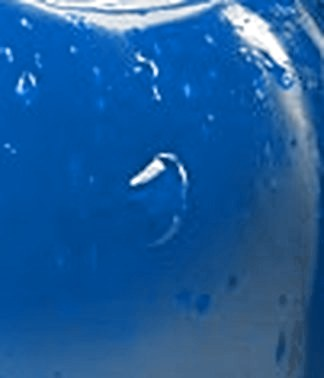
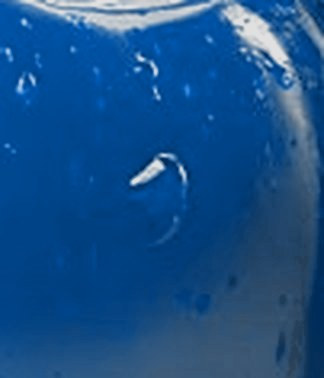
어디야 세 칸 밝기를 조금 낮추고, 놀자! 아이콘을 두 알이 부딪히는 체리 애니메이션으로
Claude-Session: https://claude.ai/code/session_01Q9nWZppKMZZvEmMGYXMXWm

diff --git a/eodiya/index.html b/eodiya/index.html
@@ -202,9 +202,9 @@
     .mode[aria-pressed="true"] b, .mode[aria-pressed="true"] span { color: #fff; }
     .mode[aria-pressed="true"] i { background: rgba(255,255,255,.95); }
     /* 싸바?·여기야!·놀자! 배경: 체리 사진 확대 (빨강·파랑·노랑으로 색만 바꿈) */
-    .mode[data-mode="ask"]  { background: linear-gradient(180deg, rgba(0,0,0,0) 35%, rgba(60,0,10,.35) 100%), url(../img/mode-cherry-red.jpg?v=2) center/cover, var(--mc); }
-    .mode[data-mode="come"] { background: linear-gradient(180deg, rgba(0,0,0,0) 35%, rgba(0,15,50,.35) 100%), url(../img/mode-cherry-blue.jpg?v=2) center/cover, var(--mc); }
-    .mode[data-mode="play"] { background: url(../img/mode-cherry-yellow.jpg?v=3) center/cover, var(--mc); }
+    .mode[data-mode="ask"]  { background: linear-gradient(180deg, rgba(0,0,0,0) 35%, rgba(60,0,10,.35) 100%), url(../img/mode-cherry-red.jpg?v=4) center/cover, var(--mc); }
+    .mode[data-mode="come"] { background: linear-gradient(180deg, rgba(0,0,0,0) 35%, rgba(0,15,50,.35) 100%), url(../img/mode-cherry-blue.jpg?v=4) center/cover, var(--mc); }
+    .mode[data-mode="play"] { background: url(../img/mode-cherry-yellow.jpg?v=4) center/cover, var(--mc); }
     .mode b, .mode span { text-shadow: 0 1px 4px rgba(0,0,0,.6); }
     /* 노랑 칸은 흰 글씨가 묻혀서 진한 갈색 글씨로 */
     .mode[data-mode="play"] b, .mode[data-mode="play"] span, .mode[data-mode="play"][aria-pressed="true"] b, .mode[data-mode="play"][aria-pressed="true"] span { color: #3D1F00; opacity: 1; text-shadow: 0 1px 3px rgba(255,240,170,.9); }
@@ -415,7 +415,7 @@
     <div class="modes" role="group" aria-label="무엇을 보낼까요">
       <button type="button" class="mode" data-mode="ask" aria-pressed="true"><i>💬</i><b>싸바?</b><span>안부 묻고 답장 받아요</span></button>
       <button type="button" class="mode" data-mode="come" aria-pressed="false"><i>📍</i><b>여기야!</b><span>내 위치나 만날 곳을 보내요</span></button>
-      <button type="button" class="mode" data-mode="play" aria-pressed="false"><i><img src="../img/cherry-dance.svg" alt="" width="34" height="34" style="display:block;margin:-4px 0"></i><b>놀자!</b><span>친구들 불러 모아요</span></button>
+      <button type="button" class="mode" data-mode="play" aria-pressed="false"><i><img src="../img/cherry-dance-anim.svg?v=1" alt="" width="40" height="40" style="display:block;margin:-4px 0"></i><b>놀자!</b><span>친구들 불러 모아요</span></button>
     </div>
 
     <div class="box" id="askBox">
